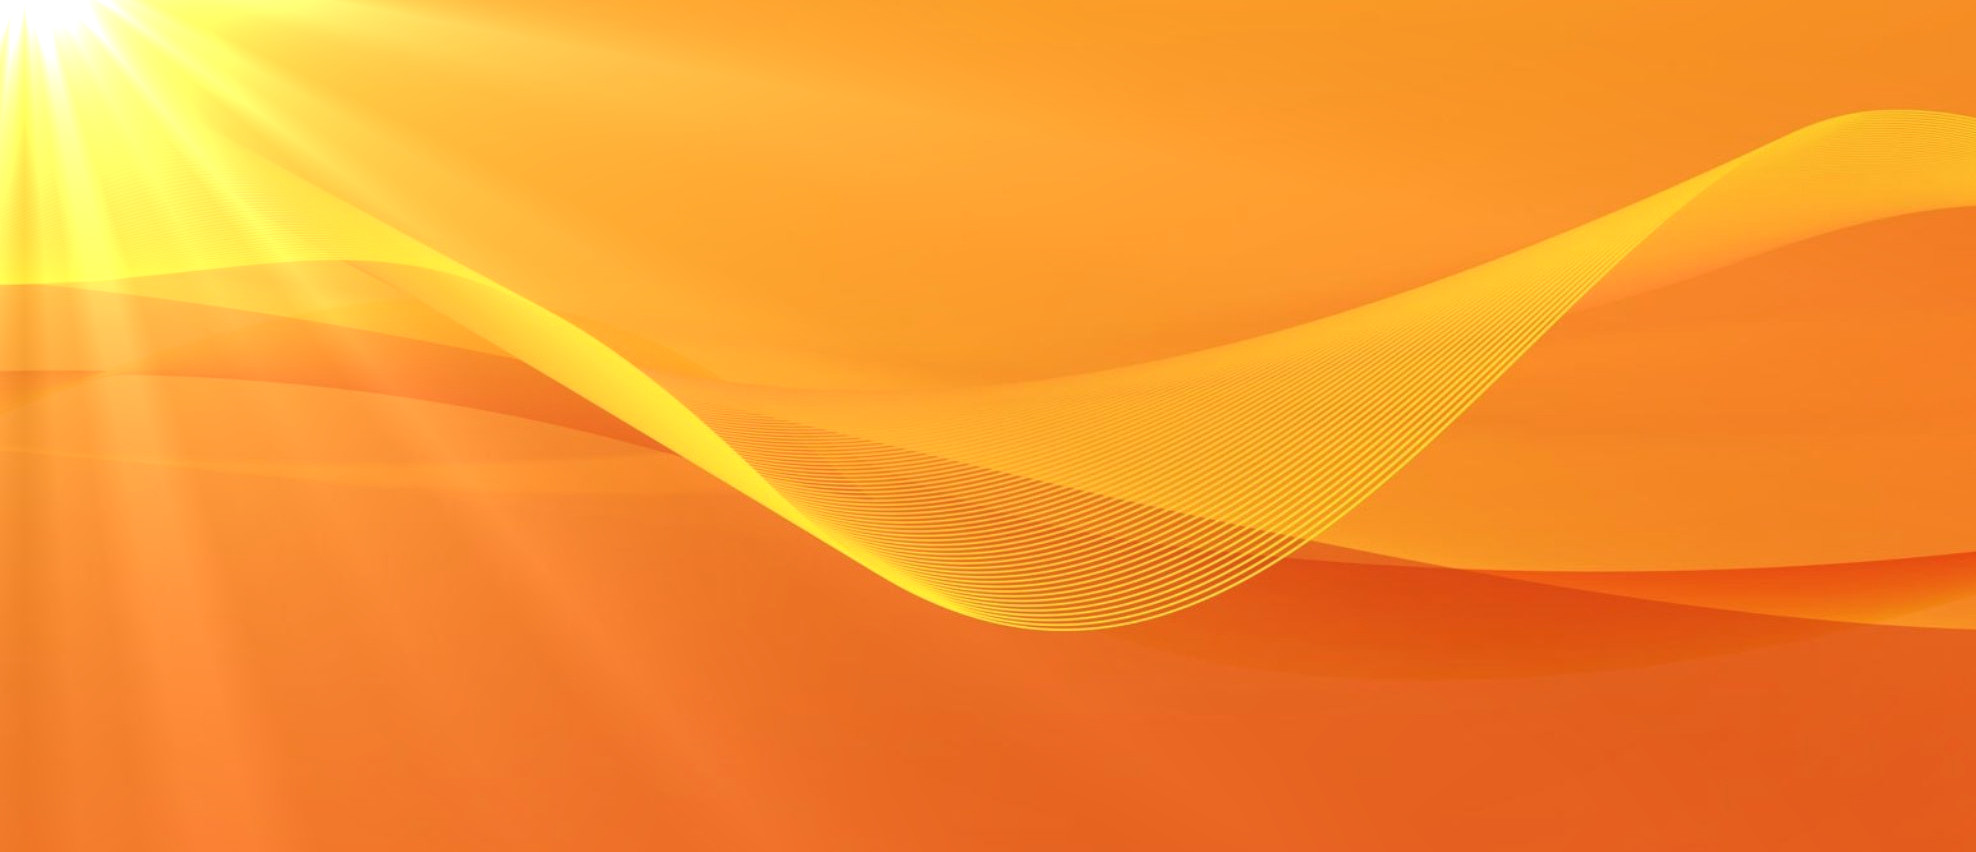
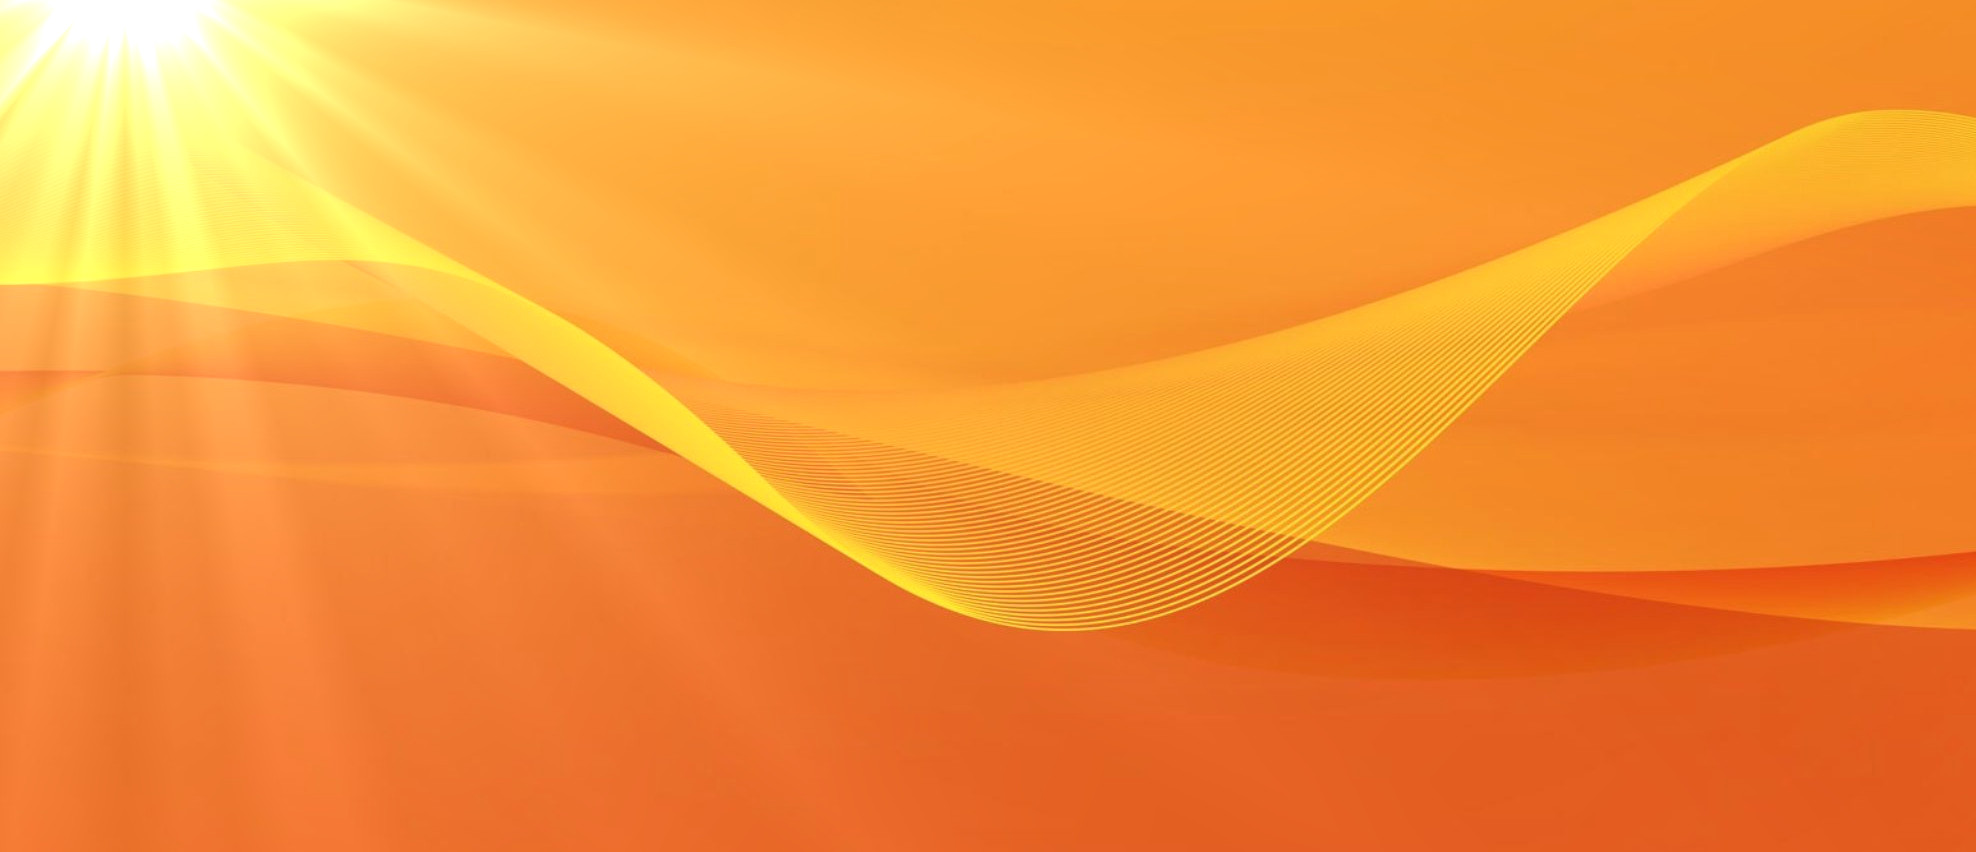
update

Changed region(s): [[0.0, 0.0, 0.247, 0.6714]]

diff --git a/src/pages/komunikacija-sluzba.js b/src/pages/komunikacija-sluzba.js
@@ -7,8 +7,7 @@ const KomunikacijaSluzba = () => (
       <div className="komunikacija-title">Komunikacija na delovnem mestu - nadrejenimi in sodelavci</div>
       <div className="komunikacija-item kom-img">
         <div className="komunikacija-text">
-          Ko sem pred približno 30 leti pričela delati v podjetju, kjer se je pričakovala da boš samoiniciativen, fleksibilen, učljiv, skoraj vedno na razpolago in še kaj bi se našlo, sem dala vse od sebe, da bi »zadovoljila te kriterije« oziroma pričakovanja. Rezultat tega je bil ko sem se ozrla nazaj, seveda gledano skozi daljše obdobje, kako malo sem bila pravzaprav cenjena. Kako sem dovoljevala nespoštljivo komunikacijo, delo ki sem ga vestno opravljala in samoiniciativa nista bili opažena, kaj šele priznana. Ko sem pričela z delom na sebi, sem prišla do določenih spoznaj, ki so mi pomagala, da sem postopoma postavila stvari na prava mesta. Postala sem opažena, cenjena in tudi nagrajena.
-          Kako sem dovolila, da sem bila velikokrat izkoriščena in nikoli pohvaljena –znano, mar ne?- kaj šele nagrajena (čeprav je bilo in je še izvedljivo).
+          Ko sem pred približno 30 leti pričela delati v podjetju, kjer se je pričakovalo, da boš samoiniciativen, fleksibilen, učljiv, skoraj vedno na razpolago in še kaj bi se našlo, sem dala vse od sebe, da bi »zadovoljila te kriterije« oziroma pričakovanja. Rezultat tega je bil ko sem se ozrla nazaj, seveda gledano skozi daljše obdobje, kako malo sem bila pravzaprav cenjena. Kako sem dovoljevala nespoštljivo komunikacijo, delo ki sem ga vestno opravljala in samoiniciativa nista bili opažena, kaj šele priznana. Ko sem pričela z delom na sebi, sem prišla do določenih spoznaj, ki so mi pomagala, da sem postopoma postavila stvari na prava mesta. Postala sem opažena, cenjena in tudi nagrajena.
           <br />
           Način komunikacije in zaupanje vase sta odigrali veliko vlogo.
           <br />

diff --git a/src/pages/komunikacija-otrok.js b/src/pages/komunikacija-otrok.js
@@ -9,14 +9,14 @@ const KomunikacijaOtrok = () => (
         <div className="komunikacija-text">
           Super, odločila sta se da povečata svojo družinico. V glavi preigravata, kako bo, se pripravljata, bereta knjige o starševstvu in vzgoji otroka, pogovarjata s prijatelji, ki že imajo to izkušnjo ipd.
           
-          Lahko pa vaju je nosečnost tudi en malce presenetila, a se vseeno podata na pot starševstva. Nič hudega, podata se na pot starševstva.
+          Lahko pa vaju je nosečnost tudi en malce presenetila. Nič hudega, podata se na pot starševstva.
           <br />
           Običajno, na začetku vse teče kot sta si predstavljala, no več ali manj <span className="emoji">😉 </span>.
           <br />
           Potem pa se počasi prikradejo neprespane noči, ritem življenja, ki ga poznaš, se počasi spreminja. In predno se pravzaprav dobro zaveš, kaj se dogaja, si že ve nekem drugem svetu oziroma scenariju.
           Skozi daljše obdobje pa še ugotoviš, da rek »Majhni otroci, majhni problemi, veliki otroci, veliki problemi.« še kako drži.
           <br />
-          Mi kot starš, se moramo zavedati, da smo prvi v vrsti pri vzgoji in šele potem je okolica in družba. Mi ga »oblikujemo« in mu damo temelje za samostojno življenje. Mi mu moramo dati občutek zdrave varnosti in zaščite.
+          Mi kot starš, se moramo zavedati, da smo prvi v vrsti pri vzgoji in šele potem je okolica in družba. Mi ga »oblikujemo« in mu damo zdrave temelje za samostojno življenje. Mi mu moramo dati tisti pravi občutek varnosti in zaščite.
           <br />
           Tu pogledamo, zakaj se zatikamo, ne razumemo in kako to preseči.
         </div>

diff --git a/src/pages/omeni.js b/src/pages/omeni.js
@@ -53,9 +53,7 @@ const OMeni = () => (
             <div className="o-meni-text">
               Prišla sem do spoznanja, da imam dobro izostren šesti čut ali intuicijo. Jasnovednost in jasnočutnost sta moja podporna stebra. Skozi daljše obdobje sem pridno pilila svojo
               komunikacijo, se poglabljala v razumevanje ljudi in okolice ter mnogim
-              tudi pomagala. Dogaja se mi, da se ljudje obračajo name, ko začutijo,
-              da morajo nekaj spremeniti, pa ne vedo kaj in kako. V večini primerov
-              se vse zgodi čisto spontano. Velikokrat sem jih začutila, da niti niso
+              tudi pomagala. Dogaja se mi, da se ljudje obračajo name, ko začutijo, da morajo oziroma si želijo nekaj spremeniti, pa ne vedo kaj in kako.V večino primerov se zgodi čisto spontano. Velikokrat sem jih začutila, da niti niso
               imeli namena spregovoriti o zadevi, ki jih teži. A nastal je trenutek,
             ko so se besede kar vsule. In sem se lotila dela <span className="emoji">😉</span>  Saj veste, pogled
             iz drugega zornega kota in pa moja dva »senzorja« pa smo zadevo

diff --git a/src/pages/poslusalka.js b/src/pages/poslusalka.js
@@ -11,7 +11,7 @@ const Poslusalka = () => (
         <br />
         In včasih je dovolj že to, da breme, ki ga nosiš, podeliš še z nekom, neznancem, ki ne obsoja in ne pametuje, ampak samo posluša.
         <br />
-        Lahko pa kot zunanja opazovalka, ki ni čustveno vpletena v situacijo, vam povem/nakaže v kateri smeri poskušajte rešiti ali iti. Temu jaz pravim, POGLED IZ DRUGEGA ZORNEGA KOTA.
+        Lahko pa kot zunanja opazovalka, ki ni čustveno vpletena v situacijo, vam povem/nakažem v kateri smeri poskušajte rešiti ali iti. Temu jaz pravim, POGLED IZ DRUGEGA ZORNEGA KOTA.
         </div>
       </div>
       <div className="kom-img-desc">

diff --git a/src/pages/kontakt.js b/src/pages/kontakt.js
@@ -11,7 +11,7 @@ const Kontakt = () => (
     <div className="kontakt-content">
       <div className="o-meni-quote">
         <p className="quote-text">
-          Naj <strong>strah</strong> ne bo naša ovira. Naj nas ne hromi. Ko se soočimo z njim in ga presežemo, postanemo zmagovalci.
+          Naj <strong>strah</strong> ne bo naša <strong>ovira</strong>. Naj nas ne hromi. Ko se soočimo z njim in ga presežemo, postanemo zmagovalci.
       </p>
       </div>
       <div className="contact-form-div">

diff --git a/src/pages/pomoc-pri-promociji.js b/src/pages/pomoc-pri-promociji.js
@@ -24,6 +24,10 @@ const PomocPriPromociji = () => (
         Mogoče pa potrebuješ samo potrditev, da si na pravi poti <span className="emoji">😉</span>
         <br />
         <br />
+        Poznate tisti rek: "Dobro blago se samo hvali".
+        Jaz pa dodajam, še bolje in hitreje pa je, če ti nekdo pri tem pomaga ;)
+        <br />
+        <br />
       </p>
 
       <div className="gallery-content">

diff --git a/src/components/header.js b/src/components/header.js
@@ -4,7 +4,7 @@ import React from "react"
 
 const Header = ({ siteTitle, subtitle, description }) => (
   <header style={{
-    backgroundImage: `url(../assets/13-6.jpg)`,
+    backgroundImage: `url(../assets/18-4.jpg)`,
     /*  backgroundSize: 'cover', */
     backgroundRepeat: 'no-repeat',
     height: '100 %',
